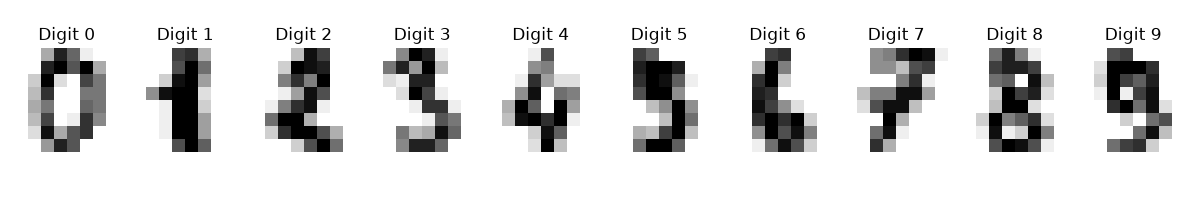
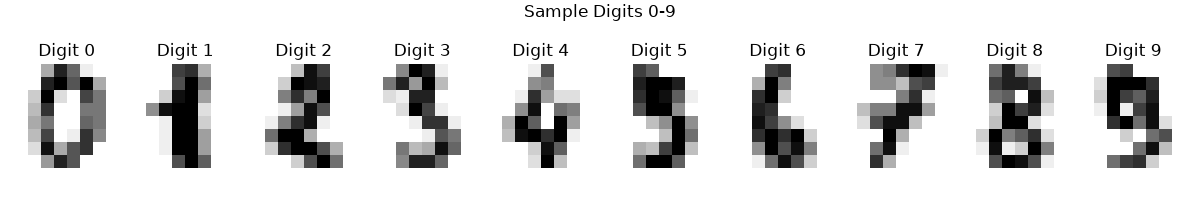
fix assignments_03

diff --git a/assignments_03/project_03.py b/assignments_03/project_03.py
@@ -6,6 +6,7 @@ import requests
 from io import BytesIO
 
 from sklearn.linear_model import LogisticRegression
+from sklearn.multiclass import OneVsRestClassifier
 from sklearn.preprocessing import StandardScaler
 from sklearn.decomposition import PCA
 from sklearn.neighbors import KNeighborsClassifier
@@ -13,7 +14,6 @@ from sklearn.tree import DecisionTreeClassifier
 from sklearn.ensemble import RandomForestClassifier
 from sklearn.metrics import ConfusionMatrixDisplay
 from sklearn.pipeline import Pipeline
-
 from sklearn.model_selection import train_test_split, cross_val_score
 from sklearn.metrics import (
     confusion_matrix,
@@ -259,7 +259,7 @@ plt.savefig(
 plt.close()
 
 # Logistic Regression Scaled
-log_reg_scaled = LogisticRegression(C=1.0, max_iter=1000, solver='liblinear')
+log_reg_scaled = OneVsRestClassifier(LogisticRegression(C=1.0, max_iter=1000, solver='liblinear'))
 log_reg_scaled.fit(X_train_scaled, y_train)
 log_pred_scaled = log_reg_scaled.predict(X_test_scaled)
 
@@ -267,7 +267,7 @@ print("Logistic Regression Scaled Accuracy:", accuracy_score(y_test, log_pred_sc
 print(classification_report(y_test, log_pred_scaled))
 
 # Logistic Regression PCA
-log_reg_pca = LogisticRegression(C=1.0, max_iter=1000, solver='liblinear')
+log_reg_pca = OneVsRestClassifier(LogisticRegression(C=1.0, max_iter=1000, solver='liblinear'))
 log_reg_pca.fit(X_train_pca, y_train)
 log_pred_pca = log_reg_pca.predict(X_test_pca)
 
@@ -373,7 +373,7 @@ print(classification_report(y_test, rf_pipeline_pred))
 # Logistic Regression Pipline
 log_pipeline = Pipeline([
     ("scaler", StandardScaler()), 
-    ("classifier",OneVsRestClassifier(LogisticRegression(
+    ("classifier", OneVsRestClassifier(LogisticRegression(
         C=1.0, 
         max_iter=1000, 
         solver='liblinear'

diff --git a/assignments_03/warmup_03.py b/assignments_03/warmup_03.py
@@ -8,6 +8,7 @@ from sklearn.decomposition import PCA
 from sklearn.neighbors import KNeighborsClassifier
 from sklearn.tree import DecisionTreeClassifier
 from sklearn.linear_model import LogisticRegression
+from sklearn.multiclass import OneVsRestClassifier
 from sklearn.metrics import (
     accuracy_score,
     classification_report,
@@ -125,9 +126,9 @@ print(classification_report(y_test, tree_pred))
 c_values = [0.01, 1.0, 100]
 
 for c in c_values:
-    model = LogisticRegression(C=c, max_iter=1000, solver='liblinear')
+    model =OneVsRestClassifier(LogisticRegression(C=c, max_iter=1000, solver='liblinear'))
     model.fit(X_train_scaled, y_train)
-    coef_sum = np.abs(model.coef_).sum()
+    coef_sum = np.abs(np.concatenate([est.coef_ for est in model.estimators_])).sum()
     print(f"C={c}, Total Coefficient Magnitude={coef_sum:.3f}")
 # As C increases, the total coefficient magnitude increases.
 # This shows that larger C means weaker regularization, allowing larger coefficients.
@@ -213,7 +214,7 @@ for row, n in enumerate(n_values, start=1):
         ax[row, col].imshow(reconstructed, cmap="gray_r")
         ax[row, col].axis("off")
     ax[row, 0].set_ylabel(f"n={n}", fontsize=12)
-
+fig.suptitle("Original Images and PCA Reconstructions")
 plt.tight_layout()
 plt.savefig("assignments_03/outputs/pca_reconstructions.png", bbox_inches="tight")
 plt.close()
